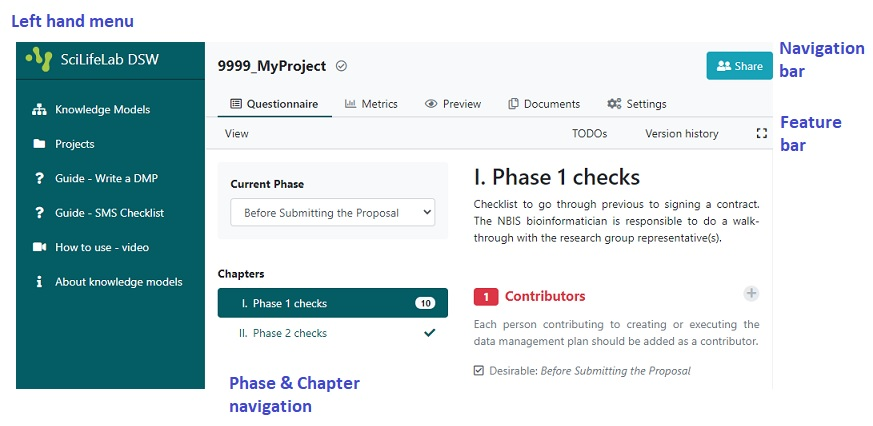
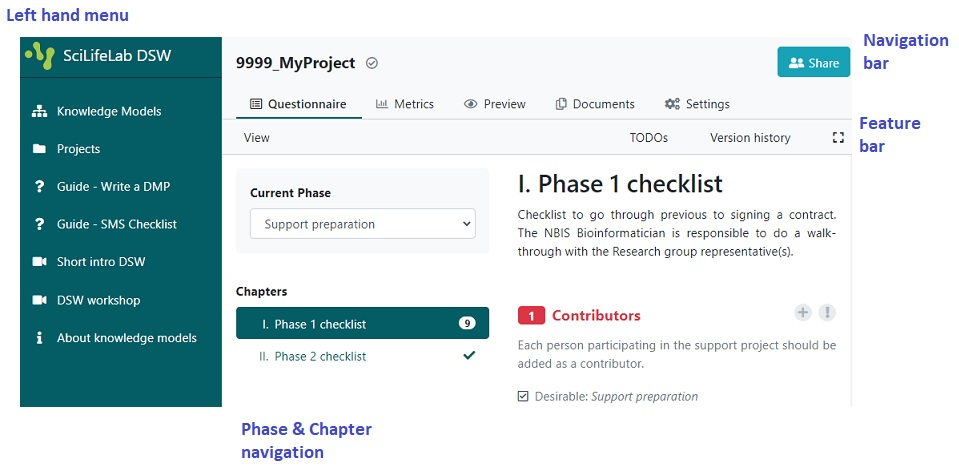
Update for project templates
This update is focused on how to work with project templates, instead of selecting knowledge model and document template.

diff --git a/demo-sms-checklist/index.html b/demo-sms-checklist/index.html
@@ -50,7 +50,7 @@
                 determine if assistance is needed. In such cases, a data management meeting will be
                 arranged, during which the Phase 2 questions of the Checklist will be addressed.<br><br>
 
-                <i><b>Note:</b>This demo is NOT for creating a data management plan, for that
+                <i><b>Note:</b> This demo is NOT for creating a data management plan, for that
                   purpose please go to <b><a href="../dsw_instructions/index.html">Guide - Write a DMP</a></b>
                    instead.</i>
               </p>
@@ -74,14 +74,9 @@
                   <li>Click on <code>Projects</code> in left-hand margin </li>
                   <br><img src="./img/projects.jpg" alt="left-hand-menu_image"><br><br>
                   <li> Click on <code>Create</code> in top right corner, name the project
-                    &lt;Redmine number&gt;_&lt;short project name&gt;</code>, select knowledge model named
-                  <code>SMS Checklist…</code> and click on <code>Save</code></li> <br>
+                    &lt;Redmine number&gt;_&lt;short project name&gt;</code>, select the project 
+                    template named <code>SMS Checklist Template</code> and click on <code>Save</code></li> <br>
                   <img src="./img/create_project.jpg" alt="create-project_image">
-                </ul>
-                <b>Note on terminology</b><br>
-                <ul>
-                  <li>Knowledge Model = a question template; this selection decides which questions
-                    will be asked</li>
                 </ul>
                 <br><a href="#Top"><code><b>Back to Top</b></code></a><br>
               </p>
@@ -92,9 +87,9 @@
               <p>
                 <ul>
                   <li>The menu on the <b>left-hand</b> margin is the top level menu of the tool, with
-                    Guide links and Knowledge models, and where you can find all your projects </li>
+                    Guide links and where you can find all your projects </li>
                   <li>In the top of the page, there is a <b>navigation bar</b> with tabs that allows you to
-                    shift between different views of the current project.
+                    shift between different views of the current project
                     <ul>
                       <li><code>Questionnaire</code> is where you answer the questions </li>
                       <li><code>Metrics</code> show statistics of questions answered (not applicable)</li>
@@ -116,10 +111,11 @@
                   </i></p>
 
                   <li>Next to the left-hand menu, there is a <b>Phase & Chapters</b> overview, where you can
-                    change phases (not applicable, only use <code>Before Submitting the Proposal</code>), see the chapters
-                    and how many questions need to be answered. This number will be reduced while answering, and
-                    when all questions are answered a tick will appear instead (see for example the chapter
-                    'Phase 2 checklist' which is ticked already for this phase).</li>
+                    change phases (use <code>Support preparation</code> for Phase 1 questions and <code>Support 
+                    planning</code> for Phase 2 questions), see the chapters and how many questions need to be 
+                    answered. This number will be reduced while answering, and when all questions are answered 
+                    a tick will appear instead (see for example the chapter 'Phase 2 checklist' which is ticked 
+                    already for this phase).</li>
 
                 </ul>
                 <br><a href="#Top"><code><b>Back to Top</b></code></a><br>
@@ -129,7 +125,7 @@
               <p>
                 The DSW provides a filtering feature that allows you to see questions relevant only
                 to a particular phase of a research project. When answering questions in <b>Phase 1</b>, 
-                 the default 'Before Submitting the Proposal' is to be used.
+                 the default 'Support planning' is to be used.
                 <ul>
                   <li>The answers will be saved automatically.</li>
 
@@ -154,7 +150,8 @@
                 <h4>Example</h4>
                 <ul>
                   <li>Click on <code>Phase 1 checklist</code> in the Chapters overview menu
-                    and scroll down to the question <code>2. Is a DMP available for this project?</code></li>
+                    and scroll down to the question <code>2. Will there be a Data Management Plan (DMP) for the 
+                    project?</code></li>
                     <br><img src="./img/todo.jpg" alt="todo_image"><br><br>
                   <li>Hover on the <code>+</code> sign next to this question, and then click on the
                     appearing <code>+ Add TODO</code>.</li>
@@ -175,16 +172,18 @@
                 your computer.
                 <ul>
                     <lh><b>Example</b></lh>
-                    <li>Click on <code>Settings</code> in the navigation bar at the top of the page.</li>
-                    <li>Select <code>SciLifeLab Full</code> from the list of templates.</li>
-                    <li>Select <code>MS Word Document</code> from <code>Default format</code>.</li>
-                    <li>Click <code>Save</code></li>
-                    <br><img src="./img/document-settings.jpg" alt="document-settings_image"><br><br>
-                    <li>Now you can click on <code>Documents</code> in the navigation bar at the top of the page.</li>
+                    <li>Click on <code>Documents</code> in the navigation bar at the top of the page.</li>
                     <li>Click on the <code>New document</code> button.</li>
-                      <br><img src="./img/document-create.jpg" alt="document-create_image"><br><br>
-                    <li>Since all the setting selections have been made already, click on <code>Create</code> in the
-                      appearing window.</li>
+                      <br><img src="./img/document-create.jpg" alt="document-create_image"><br><br>                    
+                    <li>By default the document template is <code>SMS checklist Phase 1</code>. There are 
+                      two other document templates available, one which will output Phase 2 questions and 
+                      answers, and one that will output both phases. Click on the template if you wish to 
+                      change into one of the other templates. </li>
+                    <li>The default document format is <code>MS Word Document</code>, but you can select 
+                      any of the other formats as well. </li>
+                    <li>Click <code>Create</code></li>
+                    <br><img src="./img/document-settings.jpg" alt="document-settings_image"><br><br>
+
                     <li>To inspect the resulting document, click on the three vertical dots to the left of
                       the document and select <code>Download</code> in the appearing menu.</li>
                       <br><img src="./img/document-download.jpg" alt="document-download_image">
@@ -227,16 +226,14 @@
             <hr>
             <h2 id="Outdated">Outdated project</h2>
               <p>
-                When we do updates to a question template (the knowledge model), you will get an <code>outdated</code>
-                 tag next to the name of your project, to make you aware that you are not working with the latest
-                 version of the template.<br><br>
-                 <i>Note: In the images, another projects migration is displayed, but
-                  the functionality is the same.</i><br>
-                 <br><img src="./img/outdated.jpg" alt="outdated_image">
-                 <br><br>
-                 You don't <i>have to</i> do anything, but hopefully the newer Knowledge Model has an improved value,
-                 with new questions or better guidance. In order to make the project up-to-date, you can use the
-                 <b>Create Migration</b> function.<br><br>
+                When we update a template, you will get an <code>update available</code> tag next to the name of your 
+                project, to make you aware that you are not working with the latest version of the template.<br><br>
+
+                <br><img src="./img/outdated.jpg" alt="outdated_image">
+                <br><br>
+                You don't <i>have to</i> do anything, but hopefully the updates have an improved value, 
+                with new questions or better guidance. In order to make the project up-to-date, you can use 
+                the <b>Create Migration</b> function.<br><br>
                 <img src="./img/migrate-project.jpg" alt="migrate-project_image"><br><br>
 
 			          <h4>First step</h4>
@@ -274,7 +271,7 @@
 			          <img src="./img/clone-start.jpg" alt="clone-start_image"><br><br>
 			          The clone will get the prefix 'Copy of ' as name (e.g. 'Copy of 999_MyProject').
                 To change the name, click on it to open it, then click on <b>Settings</b> in the
-                navigation bar at the top. Change the name (and possibly other settings) and click on
+                navigation bar at the top. Change the name (and possibly other settings, like adding a description) and click on
                 <b>Save</b>.<br><br>
 			          <img src="./img/clone-settings.jpg" alt="clone-settings_image">
                 <br><br><a href="#Top"><code><b>Back to Top</b></code></a><br>

diff --git a/dsw_instructions/export_project.html b/dsw_instructions/export_project.html
@@ -30,37 +30,27 @@
 		    <p>
           When all questions are answered, you can create a Data Management Plan (DMP) file 
           (a.k.a. a Document) <br>
-          First, click on <b>Settings</b> in the top navigation bar.
-          <br><br><img src="./img/export_settings.jpg" alt="export_settings_image"><br><br>
+          Click on <b>Documents</b> in the top navigation bar, and then on <b>New document</b>.
+          <br><br><img src="./img/export_document_create.jpg" alt="export_document_create_image"><br><br>
           <ul>
             <li>The <b>Name</b> field is prefilled with the name of the Project, but we recommend 
               to add an identifier to give this version of the DMP a unique name (eg a number, 
               the project phase, funder, date, etc).
             </li>
-            <li>Next, select a <b>template</b> (has directions on what to include in the DMP): 
-              <code>SciLifeLab Vetenskapsrådet DMP</code>
+            <li>There are several <b>file formats</b> to choose between. MS Word is the default since it 
+              allows you to view and edit the document previous to submitting it to a stakeholder. The 
+              output template only makes a generic transformation, of the questionnaire answers into the 
+              stakeholders template, and might need refinement.</i>
             </li>
-            <li>Finally, when a template is selected, a set of <b>file formats</b> is shown. Click on the file 
-              format you want (typically PDF or MS Word), and then click <b>Save</b>. <br>
-              <i><b>Note:</b> We recommend to export to a format which allows you to view and edit the 
-              document previous to submitting it to a stakeholder. The output template only makes a generic 
-              transformation, of the questionnaire answers into the stakeholders template, and might need refinement.</i>
-            </li>
+            <li>Click on <b>Create</b></li>
           </ul>
+          <img src="./img/export_document_view.jpg" alt="export_document_view_image">
 		    </p> 
-    
-    <p><br>
-      Click on <b>Documents</b> in the top navigation bar, and then on <b>New document</b>. 
-      <br><br><img src="./img/export_document_create.jpg" alt="export_document_create_image"><br><br>
-      Inspect the name, template and file format, then click on <b>Create</b>. 
-      <br><i>Note: It is possible to change the name, file format and output template also here, 
-        the difference is that in Settings your choices will be saved until next time.</i>
-    </p>	
-    <img src="./img/export_document_view.jpg" alt="export_document_view_image">
-    <p><br><br>In order to download the document, click on the three vertical dots right-most to the name of the
-      document and select <b>Download</b> in the appearing menu. 
-      </p>
-    <img src="./img/export_document_download.jpg" alt="export_document_download_image">
+    	
+        <p><br><br>In order to download the document, click on the three vertical dots right-most to the name of the
+          document and select <b>Download</b> in the appearing menu. 
+          </p>
+        <img src="./img/export_document_download.jpg" alt="export_document_download_image">
       </div>
     </div>
 	<div class="public">

diff --git a/dsw_instructions/answer_questions.html b/dsw_instructions/answer_questions.html
@@ -34,10 +34,9 @@
                   <li>The menu on the <b>left-hand</b> margin is the top level menu of the tool, with 
                     how-to-use links and where you can find all your projects </li>
                   <li>In the top of the page, there is a <b>navigation bar</b> with tabs that allows you to
-                    shift between different views of the current project. 
+                    shift between different views of the current project 
                     <ul>
                       <li><code>Questionnaire</code> is where you answer the questions </li>
-                      
                       <li><code>Metrics</code> show statistics of questions answered</li>
                       <li><code>Preview</code> display the output document</li>
                       <li><code>Documents</code> is where you create and download output document</li>
@@ -51,7 +50,12 @@
                       <li><code>Version history</code> browse history</li>
                       <li><code>Zen mode</code> show or hide left menu and navigation bar</li>
                     </ul>
-                  <br><img src="./img/menu-navigation.jpg" alt="menu-navigation_image"><br><br>
+                    <p><i>Note: This guide will only go through the TODO functionality, for a guide on
+                      the other features please see <a href="../dsw_instructions/useful_tricks.html"><b>Useful 
+                        tips and tricks</b></a>.
+                    </i></p>
+  
+                    <br><img src="./img/menu-navigation.jpg" alt="menu-navigation_image"><br><br>
                   <li>Next to the left-hand menu, there is a <b>Phase & Chapters</b> overview, where you can 
                     change phase and see how many questions that needs to be answered. By clicking on 
                     one of the chapters you will reach that part of the DMP.</li>

diff --git a/dsw_instructions/new_project.html b/dsw_instructions/new_project.html
@@ -32,18 +32,17 @@
           <li>Click on <b>Projects</b> in left-side menu</li>
           <li>Click on <b>Create</b> in the top right corner</li>
           <br><img src="./img/create_project.jpg" alt="create_project_image"><br><br>
-          <li>Name the project and select Knowledge Model</li>
+          <li>Name the project and select Template</li>
           <ul>
             <li>Write a Name based on your name and project, so it is easy to find later </li>
-            <li>Select <code>SciLifeLab Science Europe / VR DMP 2.0.5</code> (or the highest version number) as 
-              Knowledge Model <br>
-              <b>Note:</b> Select the SNIC-SENS tag if you want to write the abridged DMP required when applying 
+            <li>Select <code>Vetenskapsrådet DMP Template</code> as project template <br>
+              <b>Note:</b> Select the SNIC-SENS DMP Teplate if you want to write the abridged DMP required when applying 
               for a project on Uppmax regarding sensitive data.     
               </li>
             <li>Click on <b>Save</b> and begin answering the questions</li>
           </ul>
           <br>
-          <img src="./img/create_select_km.jpg" alt="create_select_km_image"><br><br>
+          <img src="./img/create_select_template.jpg" alt="create_select_template_image"><br><br>
        </ol>
 		    </p>
       </div>

diff --git a/dsw_instructions/migrate_project.html b/dsw_instructions/migrate_project.html
@@ -26,9 +26,9 @@
       <div class="container">
         <div class="Public_BookReference">
           <h1>Instructions on how to update an outdated Project</h1>
-			<p> When new versions of a Knowledge Model is released, projects based on 
-			earlier versions becomes marked as outdated. You don't <i>have to</i> do anything, 
-			but hopefully the newer Knowledge Model has an improved value, with new 
+			<p> When new versions of a template is released, projects based on 
+			earlier versions becomes marked with <code>update available</code>. You don't <i>have to</i> do anything, 
+			but hopefully the updates have an improved value, with new 
 			questions or better guidance. In order to make the project
 			up-to-date, you can use the <b>Create Migration</b> function.<br></p>
 			<img src="./img/migration_project.jpg" alt="migration_project_image">
